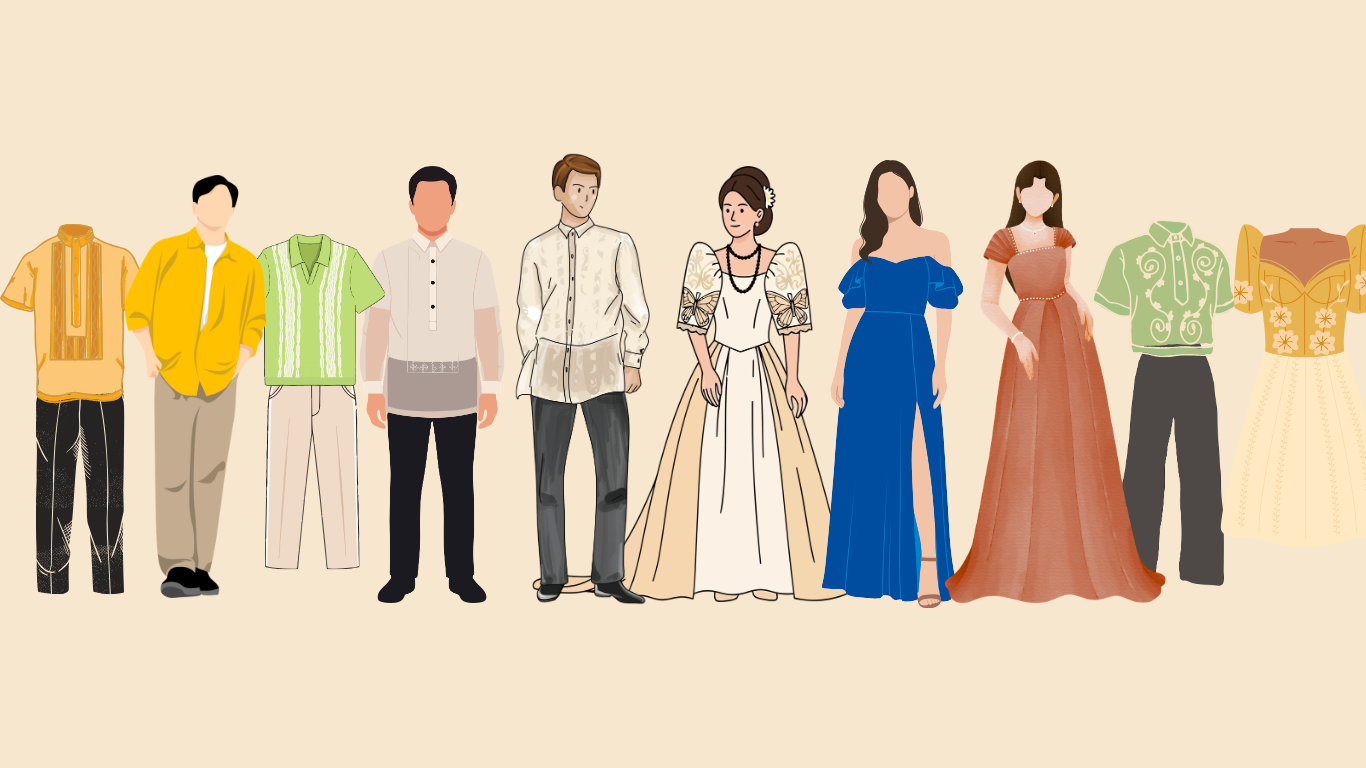
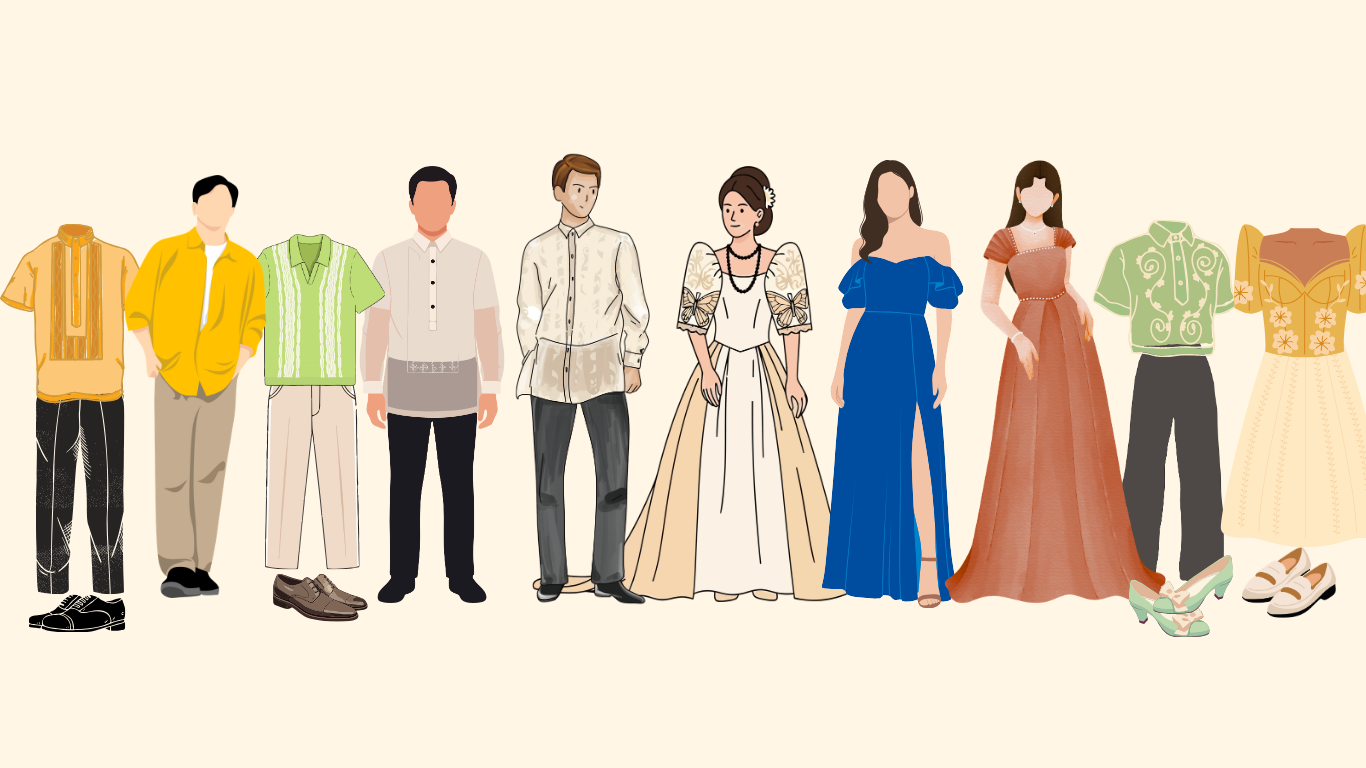
add reminders section and updated styles

Changed region(s): [[0.8302, 0.7188, 0.9839, 0.8438], [0.1845, 0.75, 0.2767, 0.8125], [0.0, 0.7812, 0.0922, 0.8438]]

diff --git a/src/app/features/rsvp/sections/attire/attire-section.scss b/src/app/features/rsvp/sections/attire/attire-section.scss
@@ -7,6 +7,10 @@
   flex-direction: column;
   justify-content: center;
   gap: clamp(2rem, 4vw, 3rem);
+
+  /* background pattern for the attire section */
+  background: url('/assets/images/bg-kasuotan.png') center/cover no-repeat;
+  position: relative;
 }
 
 .header {
@@ -227,12 +231,63 @@
 }
 
 @media (max-width: 900px) {
+  /* Stack layout vertically and improve spacing on small screens */
   .layout {
     grid-template-columns: 1fr;
     text-align: center;
+    gap: 1.25rem;
   }
 
+  /* Ensure the illustration appears above the guides on narrow viewports */
   .art {
     order: -1;
+    margin-bottom: 1rem;
+  }
+
+  /* Make guide box full width and reduce padding */
+  .role-guide {
+    width: 100%;
+    margin: 0.75rem 0;
+    padding: 0.75rem;
+  }
+
+  /* Collapse palette into stacked rows that center and wrap when needed */
+  .role-palette {
+    margin-top: 0.75rem;
+    display: flex;
+    flex-direction: column;
+    gap: 0.5rem;
+    align-items: center;
+  }
+
+  .role-palette-row {
+    justify-content: center;
+    gap: 1rem;
+    padding: 0;
+    width: 100%;
+    flex-wrap: wrap;
+    overflow-x: hidden;
+  }
+
+  /* Reduce swatch block widths so they fit comfortably */
+  .swatch-set {
+    min-width: 110px;
+  }
+
+  /* Slightly smaller circular swatches on mobile */
+  .swatch-mini {
+    width: 36px;
+    height: 36px;
+  }
+
+  /* Center guide text for better layout */
+  .guide h3,
+  .guide p {
+    text-align: center;
+  }
+
+  /* Constrain image width for small screens */
+  .art img {
+    width: min(80%, 260px);
   }
 }

diff --git a/src/app/features/rsvp/sections/reminders/reminders-section.scss b/src/app/features/rsvp/sections/reminders/reminders-section.scss
@@ -1,0 +1,86 @@
+.reminders {
+  max-width: 1000px;
+  margin: 0 auto;
+  padding: min(10vw, 80px) min(6vw, 40px);
+  color: #3f2a1d;
+}
+
+.reminders-grid {
+  display: grid;
+  grid-template-columns: 40% 1fr;
+  align-items: center;
+  gap: clamp(1rem, 3vw, 2rem);
+}
+
+.couple-photo {
+  width: 100%;
+  height: clamp(220px, 28vw, 380px);
+  border-radius: 12px;
+  background: linear-gradient(135deg, #efe6df, #e6d4c3);
+  box-shadow: 0 8px 24px rgba(0, 0, 0, 0.08);
+  position: relative;
+  display: flex;
+  align-items: center;
+  justify-content: center;
+  color: rgba(63, 42, 29, 0.55);
+  font-weight: 600;
+  font-size: clamp(0.9rem, 1.6vw, 1.1rem);
+}
+
+.couple-photo::after {
+  content: 'Photo';
+  opacity: 0.35;
+}
+
+.title {
+  font-size: clamp(2rem, 5vw, 3rem);
+  color: var(--primary-button);
+  margin-bottom: 32px;
+  text-align: right;
+}
+
+.reminders-card {
+  max-width: 520px;
+  width: 100%;
+  justify-self: end; /* anchor the card to the right column */
+  text-align: right;
+}
+
+.lead {
+  font-weight: 700;
+  font-size: clamp(1.1rem, 2.8vw, 1.6rem);
+  line-height: 1.2;
+  margin: 0 0 0.75rem;
+}
+
+.assist {
+  margin: 0 0 0.75rem;
+  color: #6b4a34;
+}
+
+.closing {
+  margin: 0;
+  font-weight: 600;
+}
+
+@media (max-width: 900px) {
+  .reminders-grid {
+    grid-template-columns: 1fr;
+  }
+
+  .couple-photo {
+    order: -1;
+    width: 100%;
+    margin-bottom: 1rem;
+  }
+
+  .reminders-card {
+    justify-self: center;
+    text-align: center;
+    max-width: 720px;
+  }
+
+  .title {
+    text-align: center;
+  }
+}

diff --git a/src/app/features/rsvp/rsvp.page.ts b/src/app/features/rsvp/rsvp.page.ts
@@ -10,6 +10,7 @@ import {FaqSection} from "./sections/faq/faq-section";
 import {ProgramSection} from "./sections/program/program-section";
 import {QrSection} from "./sections/qr/qr-section";
 import {AttireSection} from "./sections/attire/attire-section";
+import {RemindersSection} from "./sections/reminders/reminders-section";
 
 @Component({
   selector: "app-rsvp",
@@ -22,6 +23,7 @@ import {AttireSection} from "./sections/attire/attire-section";
     ProgramSection,
     QrSection,
     RsvpForm,
+    RemindersSection,
     BottomNav
   ],
   templateUrl: "./rsvp.page.html",

diff --git a/src/app/features/rsvp/sections/reminders/reminders-section.html b/src/app/features/rsvp/sections/reminders/reminders-section.html
@@ -1,0 +1,13 @@
+<section class="reminders">
+  <div class="reminders-grid">
+    <div class="couple-photo" aria-hidden="true"></div>
+
+    <div class="reminders-card">
+      <h2 class="title">{{ title }}</h2>
+
+      <p class="lead">Huwag kalimutang mag-RSVP<br>bago o sa ika-23 ng Nobyembre 2026.</p>
+      <p class="assist">Para sa iba pang katanungan, maaari ninyo itong ipadala sa amin.</p>
+      <p class="closing">Kitakits sa araw ng aming pag-iisang dibdib!</p>
+    </div>
+  </div>
+</section>

diff --git a/src/app/features/rsvp/sections/qr/qr-section.ts b/src/app/features/rsvp/sections/qr/qr-section.ts
@@ -25,7 +25,7 @@ export class QrSection {
   );
 
   readonly message = signal(
-    "Kung nais ninyong magbahagi, maaari ninyong gamitin ang QR code sa ibaba para sa aming bagong simula."
+    "Kung nais ninyong magbahagi, maaari ninyong gamitin itong mga QR code sa ibaba para sa aming bagong simula."
   );
 
   readonly qrCodes = signal<QrCode[]>([

diff --git a/src/app/features/rsvp/sections/reminders/reminders-section.ts b/src/app/features/rsvp/sections/reminders/reminders-section.ts
@@ -1,0 +1,10 @@
+import { Component } from '@angular/core';
+
+@Component({
+  selector: 'app-reminders-section',
+  templateUrl: './reminders-section.html',
+  styleUrl: './reminders-section.scss',
+})
+export class RemindersSection {
+  readonly title = 'Paalaala';
+}

diff --git a/src/app/features/rsvp/rsvp.page.html b/src/app/features/rsvp/rsvp.page.html
@@ -23,6 +23,9 @@
     <section id="qr">
       <app-qr-section />
     </section>
+    <section id="reminders">
+      <app-reminders-section/>
+    </section>
   </div>
 
   <app-bottom-nav />

diff --git a/src/app/features/rsvp/rsvp.page.scss b/src/app/features/rsvp/rsvp.page.scss
@@ -27,7 +27,7 @@
   }
 
   &#attire{
-    background:var(--secondary-bg);
+    background:var(--tertiary-bg);
   }
   &#location {
     background:var(--tertiary-bg);
